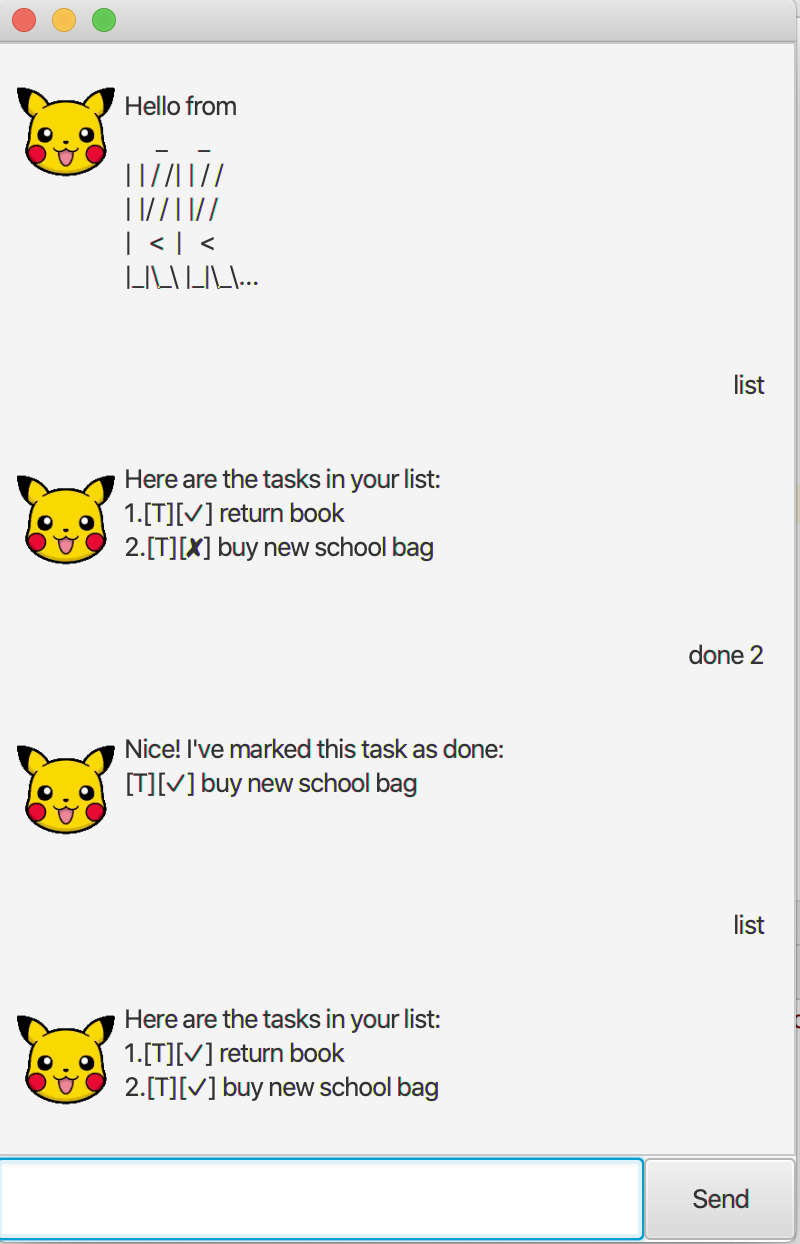
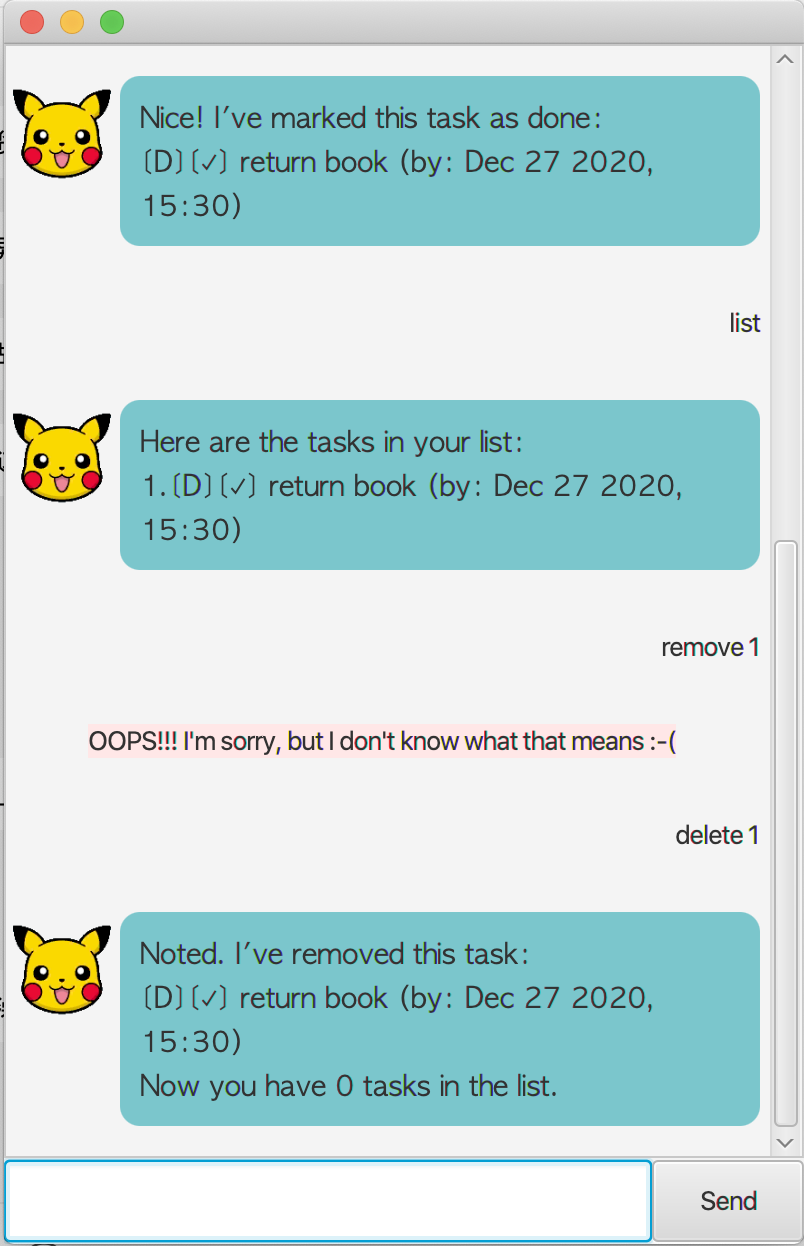
updated UI

diff --git a/src/main/java/duke/ui/MainWindow.java b/src/main/java/duke/ui/MainWindow.java
@@ -45,7 +45,7 @@ public class MainWindow extends AnchorPane {
 
     /**
      * Creates two dialog boxes, one echoing user input and the other containing KK's reply and then appends them to
-     * the dialog container. Clears the user input after processing.
+     * the dialog container.
      */
     @FXML
     private void handleUserInput() {
@@ -53,13 +53,18 @@ public class MainWindow extends AnchorPane {
         String response = null;
         try {
             response = duke.getResponse(input);
+            dialogContainer.getChildren().addAll(
+                    UserDialogBox.getUserDialog(input),
+                    DukeDialogBox.getDukeDialog(response, dukeImage)
+            );
         } catch (DukeException e) {
             e.printStackTrace();
+            dialogContainer.getChildren().addAll(
+                    UserDialogBox.getUserDialog(input),
+                    ErrorMessageBox.getErrorMessageBox(e.getMessage())
+            );
         }
-        dialogContainer.getChildren().addAll(
-                UserDialogBox.getUserDialog(input),
-                DukeDialogBox.getDukeDialog(response, dukeImage)
-        );
+
         userInput.clear();
     }
 }

diff --git a/src/main/java/duke/ui/ErrorMessageBox.java b/src/main/java/duke/ui/ErrorMessageBox.java
@@ -1,0 +1,38 @@
+package duke.ui;
+
+import java.io.IOException;
+
+import javafx.fxml.FXML;
+import javafx.fxml.FXMLLoader;
+import javafx.scene.control.Label;
+import javafx.scene.image.ImageView;
+import javafx.scene.layout.HBox;
+
+/**
+ * An example of a custom control using FXML.
+ * This control represents a dialog box consisting of an ImageView to represent the speaker's face and a label
+ * containing text from the speaker.
+ */
+public class ErrorMessageBox extends HBox {
+    @FXML
+    private Label dialog;
+    @FXML
+    private ImageView displayPicture;
+
+    private ErrorMessageBox(String text) {
+        try {
+            FXMLLoader fxmlLoader = new FXMLLoader(MainWindow.class.getResource("/view/ErrorMessageBox.fxml"));
+            fxmlLoader.setController(this);
+            fxmlLoader.setRoot(this);
+            fxmlLoader.load();
+        } catch (IOException e) {
+            e.printStackTrace();
+        }
+
+        dialog.setText(text);
+    }
+
+    public static ErrorMessageBox getErrorMessageBox(String text) {
+        return new ErrorMessageBox(text);
+    }
+}

diff --git a/docs/README.md b/docs/README.md
@@ -1,12 +1,7 @@
 # Your life Asistant Chat Bot - KK
 
 This is a chatbot that can help you keep track of your to do list. It's named is KK. Given below are instructions on how to use it. 
-      _      _
-| | / /| | / /
-| |/ / | |/ /
-|   <  |   <
-|_|\_\ |_|\_\
-
+      
 
 ## Sample commands include: 
 
